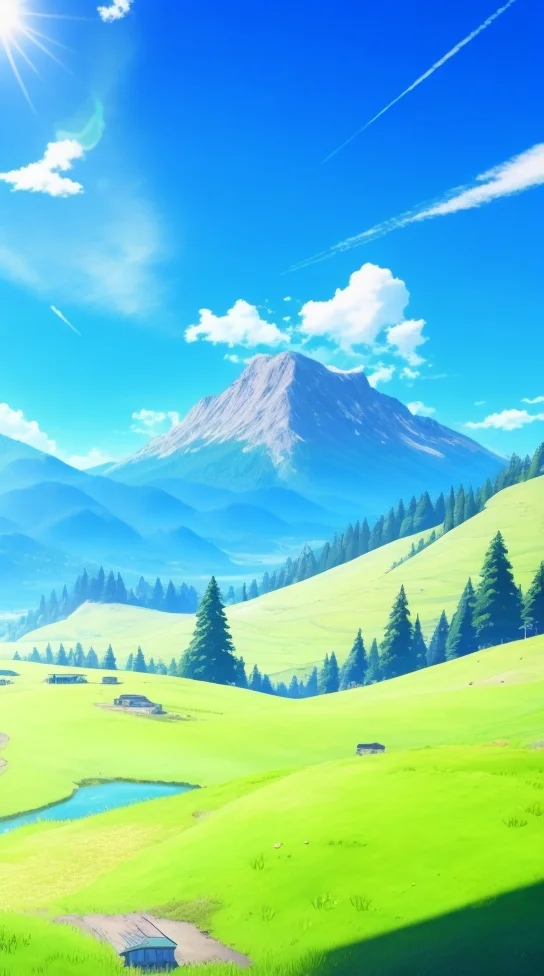
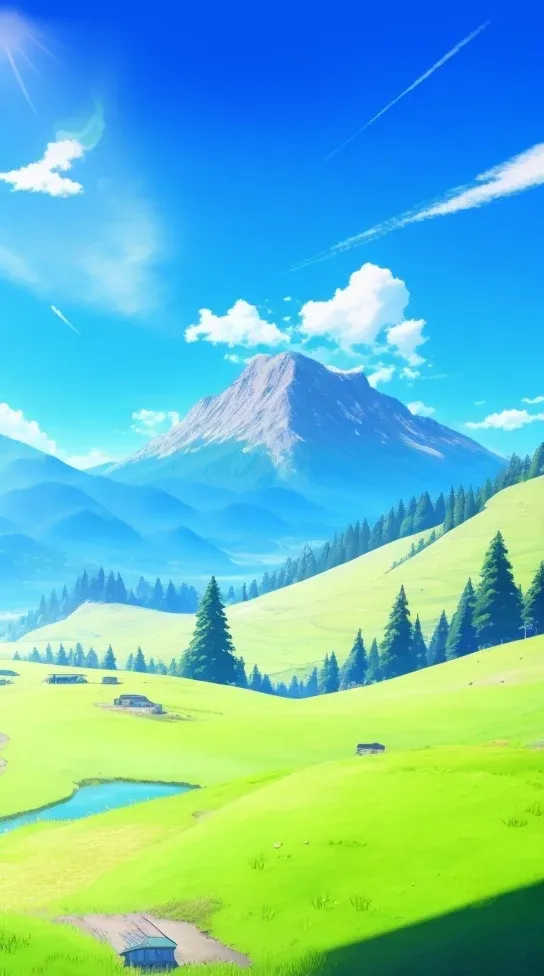
Edited Mobile images top color to match status bar

diff --git a/src/components/React/CoverImage.tsx b/src/components/React/CoverImage.tsx
@@ -38,25 +38,25 @@ const CoverImage = ({ background }: Props) => {
     }
 
     const M_Colors: ColorType = {
-        "01d": "#035cf4",
-        "01n": "#021549",
-        "02d": "#0146e7",
-        "02n": "#051438",
-        "03d": "#054faf",
-        "03n": "#0f1245",
-        "04d": "#0b3886",
+        "01d": "#0253f0",
+        "01n": "#031649",
+        "02d": "#0146e9",
+        "02n": "#041538",
+        "03d": "#0650b0",
+        "03n": "#0c0e3d",
+        "04d": "#103785",
         "04n": "#020b44",
-        "09d": "#314766",
-        "09n": "#021732",
-        "10d": "#232d37",
-        "10n": "#243749",
+        "09d": "#2a3e5e",
+        "09n": "#021933",
+        "10d": "#aaaeb4",
+        "10n": "#051728",
         "11d": "#1c2b5f",
-        "11n": "#162d61",
-        "13d": "#8fa6c3",
-        "13n": "#10325b",
-        "50d": "#3593e1",
-        "50n": "#0e2e41",
-        "default": "#002bc5",
+        "11n": "#112552",
+        "13d": "#87a6c8",
+        "13n": "#11335c",
+        "50d": "#3492e0",
+        "50n": "#0d2e41",
+        "default": "#60a5fa",
     }
 
     useEffect(() => {
